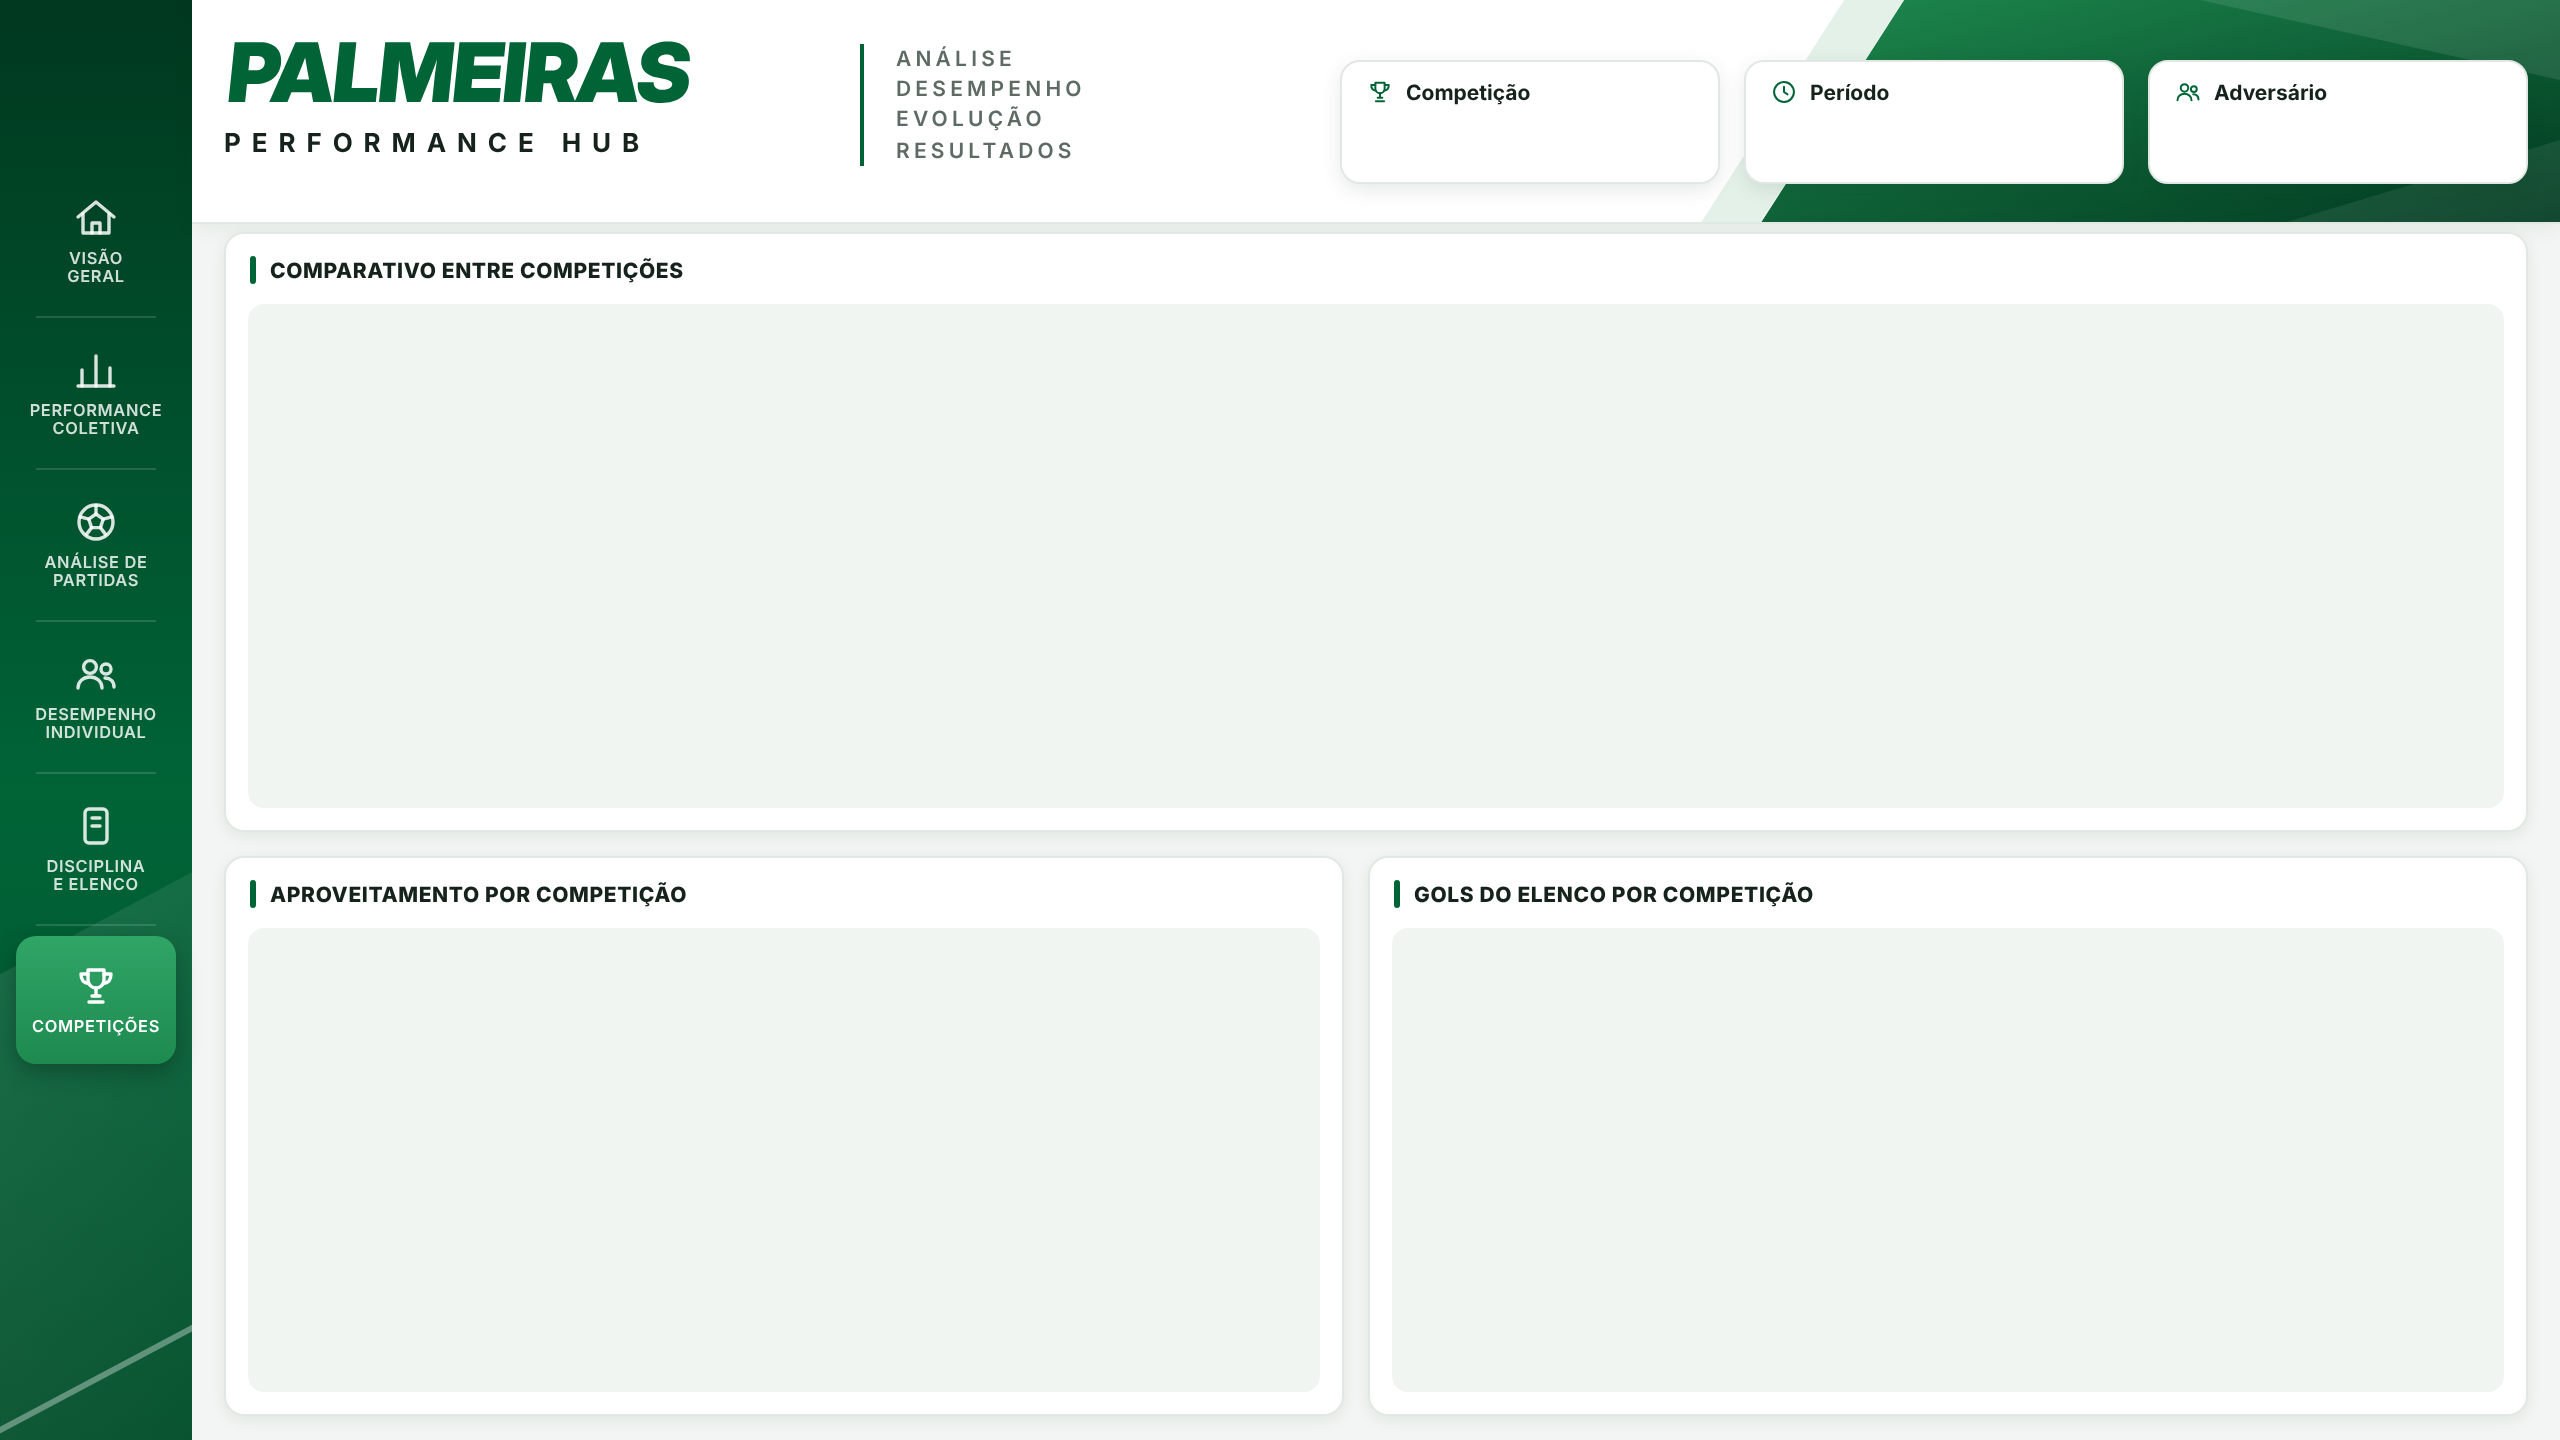
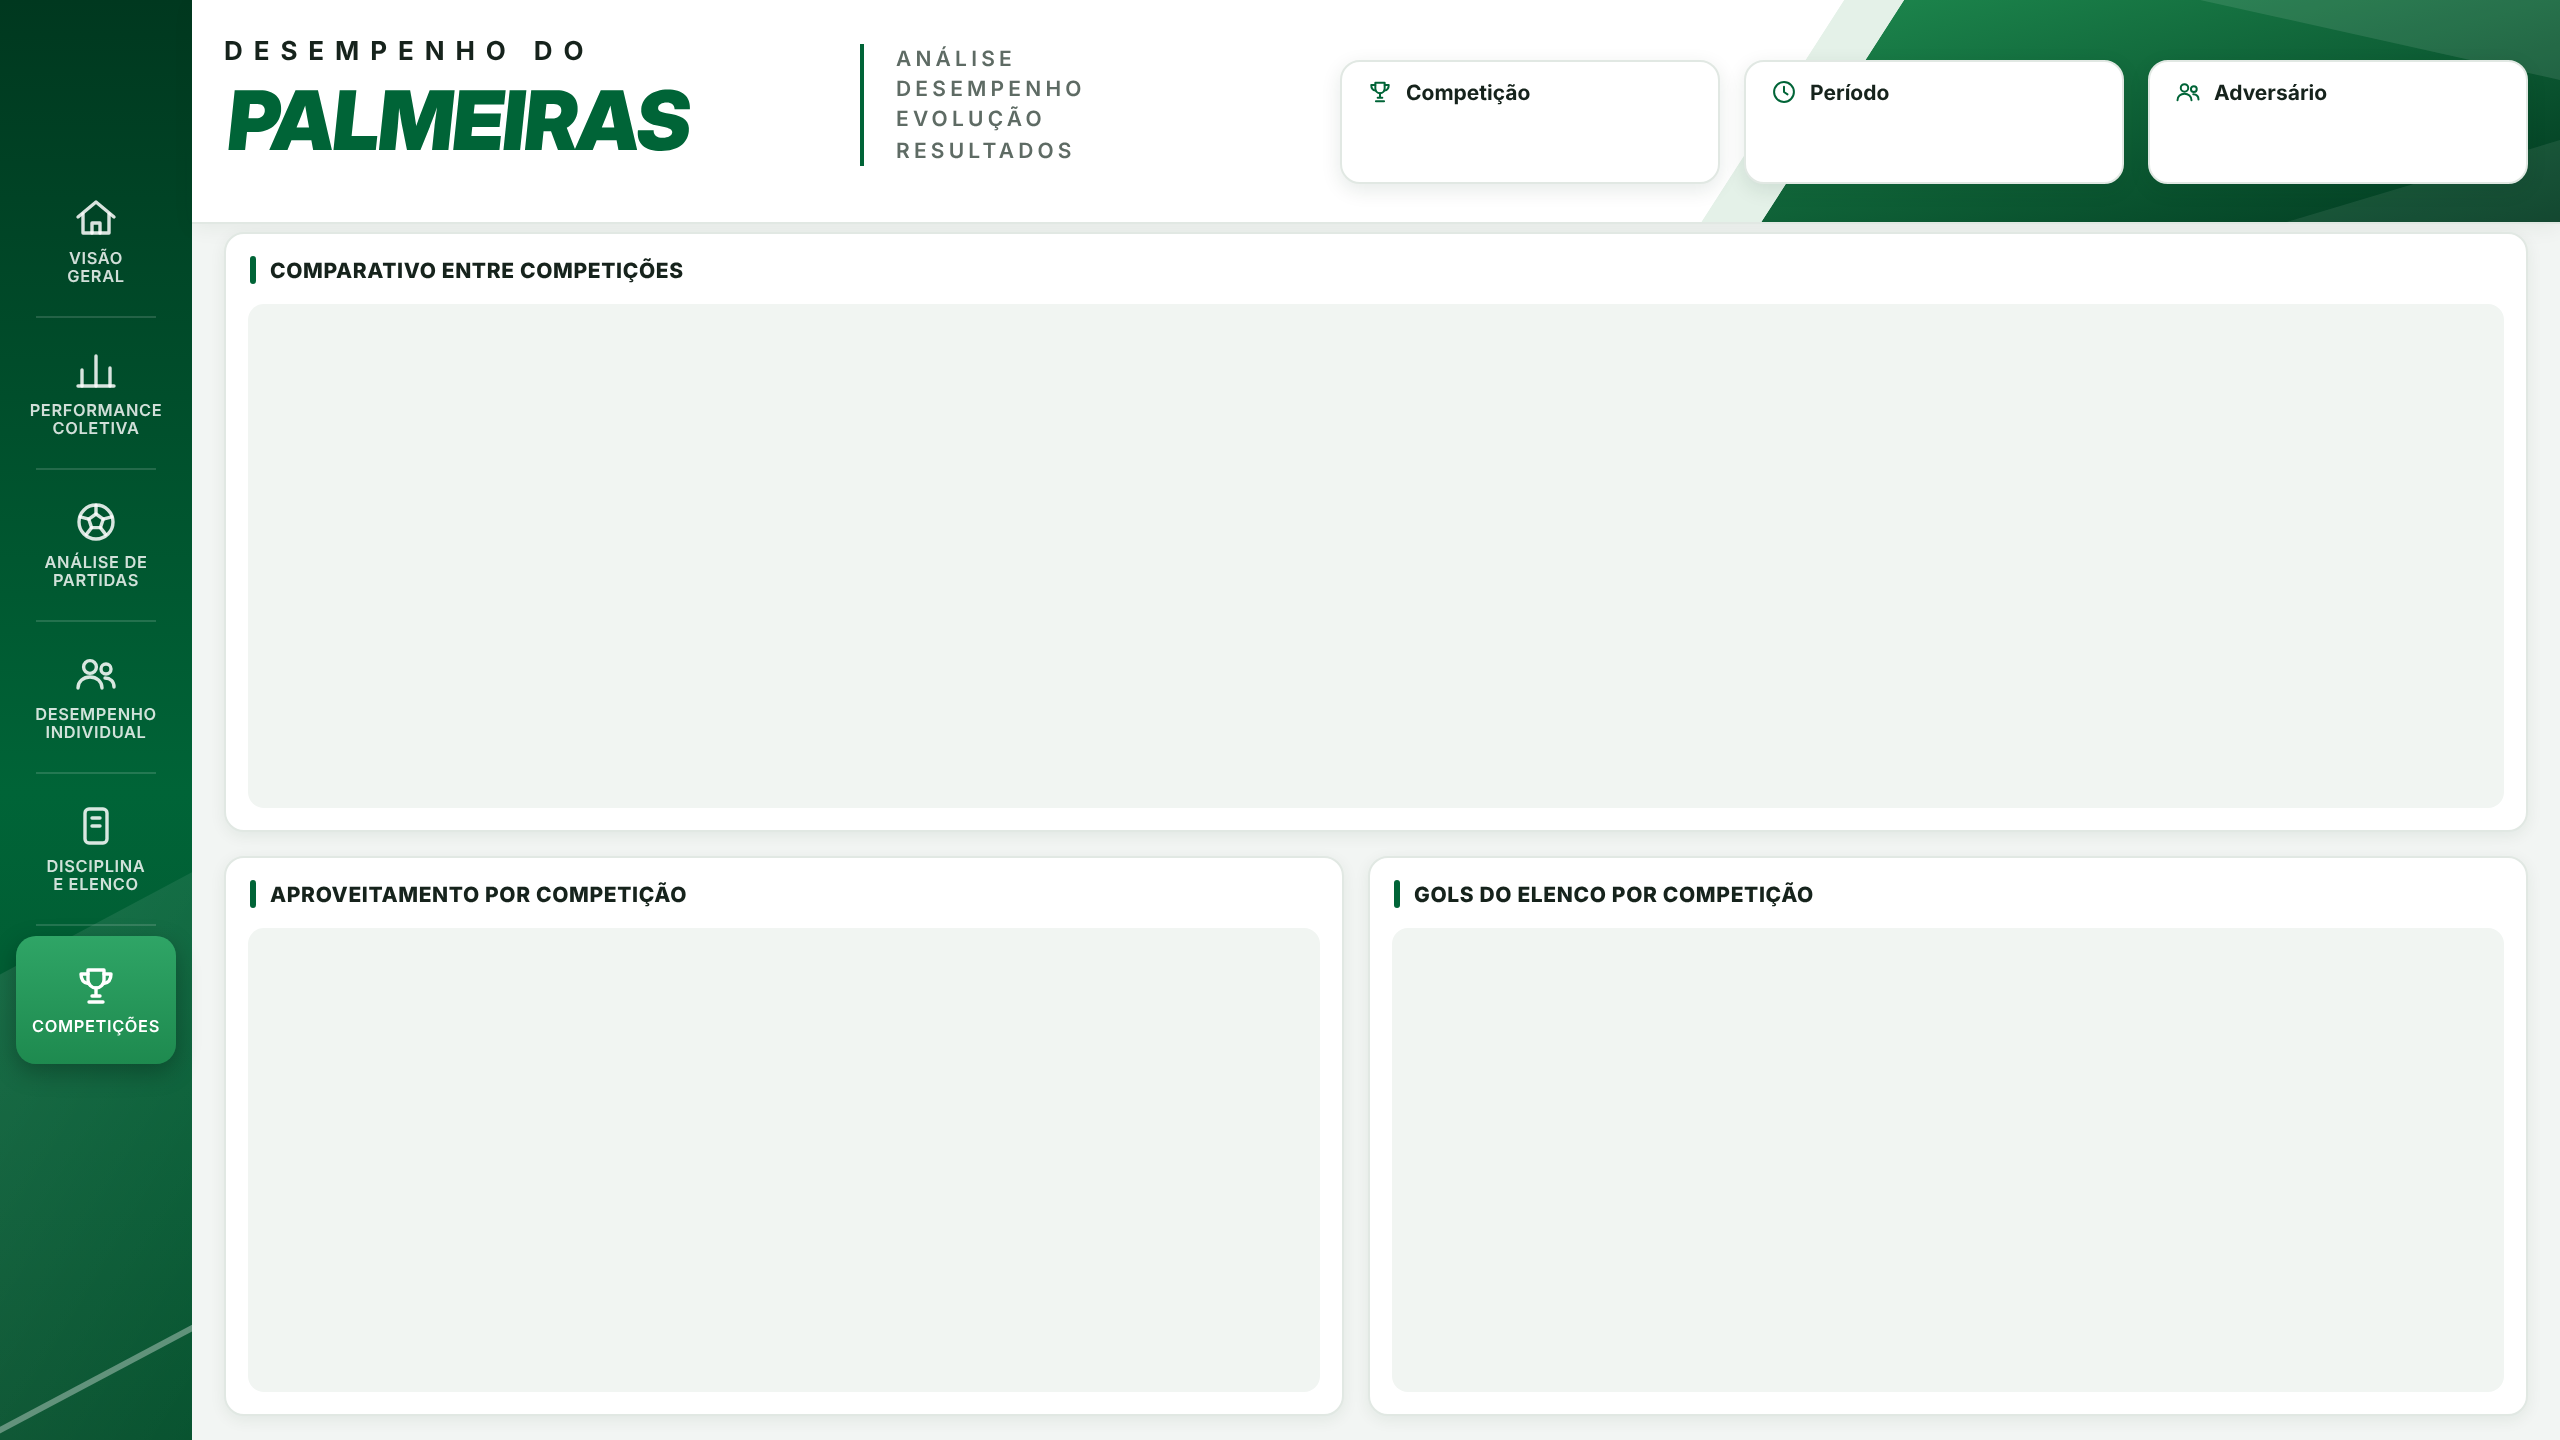
Renomeia o projeto para Desempenho do Palmeiras

Changed region(s): [[0.0625, 0.0312, 0.2812, 0.125]]

diff --git a/dashboard/design/gerar_fundos.py b/dashboard/design/gerar_fundos.py
@@ -253,11 +253,18 @@ def render_pagina(pg: dict, previa: bool = False) -> str:
             partes.append(f'<div class="nav-sep" style="top:{y + 70}px"></div>')
     # header
     partes.append('<div class="head-bg">' + deco_header() + "</div>")
-    partes.append(f'<div class="titulo"><div class="a">PALMEIRAS</div><div class="b">PERFORMANCE HUB</div></div>')
+    partes.append(f'<div class="titulo"><div class="b" style="margin:2px 0 6px">DESEMPENHO DO</div><div class="a">PALMEIRAS</div></div>')
     partes.append('<div class="tag">Análise<br>Desempenho<br>Evolução<br>Resultados</div>')
     ic_seg = {"Competição": "trophy", "Período": "clock", "Adversário": "people"}
+    exemplo_seg = {"Competição": "Todas as competições", "Período": "Todos", "Adversário": "Todos"}
     for nome, x in SEGMENTACOES:
         partes.append(f'<div class="seg" style="left:{x}px"><div class="l">{icon(ic_seg[nome], VERDE, 14)}<span>{nome}</span></div></div>')
+        if previa:  # simula a segmentação (no Power BI ela é um visual de verdade sobre esta caixa)
+            partes.append(
+                f'<div class="abs" style="left:{x+8}px;top:{SEG_Y+28}px;width:{SEG_W-16}px;height:26px;border:1px solid #D5DED8;'
+                f'border-radius:6px;background:#fff;display:flex;align-items:center;justify-content:space-between;'
+                f'padding:0 9px;font-size:10px;font-weight:600;color:{TINTA}"><span>{exemplo_seg[nome]}</span>'
+                f'<svg width="10" height="10" viewBox="0 0 10 10"><path d="m1.5 3.5 3.5 3.5 3.5-3.5" fill="none" stroke="{MUDO}" stroke-width="1.5" stroke-linecap="round"/></svg></div>')
 
     # painéis
     for p in pg["paineis"]:
@@ -402,8 +409,21 @@ def previa_pagina1() -> str:
         out.append(f'<div class="abs" style="left:{a["x"]+66}px;top:{y+3}px;width:{(a["w"]-130)*t/100:.0f}px;height:8px;background:{VERDE};border-radius:2px"></div>')
         out.append(texto(a["x"] + a["w"] - 50, y, 44, 14, f"{str(t).replace('.',',')}%", 8, TINTA, 700, "flex-end"))
 
-    # aviso
-    out.append(f'<div class="abs" style="left:{MX}px;top:709px;font-size:8px;line-height:11px;color:{MUDO}">Prévia com dados fictícios, somente para visualizar o design.</div>')
+    # segmentações simuladas (no Power BI são visuais de segmentação, estilo lista suspensa)
+    for x, valor in ((670, "Todas as competições"), (872, "Todos"), (1074, "Todos")):
+        out.append(
+            f'<div class="abs" style="left:{x+8}px;top:{SEG_Y+28}px;width:{SEG_W-16}px;height:24px;background:#F1F5F2;'
+            f'border:1px solid #DCE4DF;border-radius:6px;display:flex;align-items:center;justify-content:space-between;'
+            f'padding:0 9px;font-size:10px;font-weight:600;color:{TINTA}"><span>{valor}</span>'
+            f'<svg width="10" height="10" viewBox="0 0 10 10"><path d="M2 3.5 5 6.5 8 3.5" fill="none" stroke="{VERDE}" '
+            f'stroke-width="1.6" stroke-linecap="round" stroke-linejoin="round"/></svg></div>')
+    # etiqueta de dados fictícios
+    out.append(
+        f'<div class="abs" style="left:{MX}px;top:86px;height:17px;padding:0 9px;display:flex;align-items:center;'
+        f'background:#FFF1C9;border:1px solid #E5C766;border-radius:9px;font-size:8.5px;font-weight:800;'
+        f'letter-spacing:.06em;color:#7A5B00;text-transform:uppercase">Prévia · dados fictícios · não são resultados reais</div>')
+    out.append(f'<div class="abs" style="left:{MX}px;top:709px;font-size:8px;line-height:11px;color:{MUDO}">'
+               f'Os números reais dependem das súmulas carregadas no pipeline.</div>')
     return "".join(out)
 
 

diff --git a/powerquery/carregar_tabelas.m b/powerquery/carregar_tabelas.m
@@ -1,5 +1,5 @@
 // =============================================================================
-// Palmeiras Performance Hub — Consultas do Power Query (M)
+// Desempenho do Palmeiras — Consultas do Power Query (M)
 //
 // COMO USAR
 //  1. Power BI Desktop > Transformar dados > Gerenciar parâmetros > Novo parâmetro

diff --git a/README.md b/README.md
@@ -1,4 +1,4 @@
-# Palmeiras Performance
+# Desempenho do Palmeiras
 
 Análise de desempenho esportivo do **Palmeiras (time profissional)**, desenvolvida com
 **Python e Power BI** a partir de súmulas oficiais. O projeto transforma registros de
